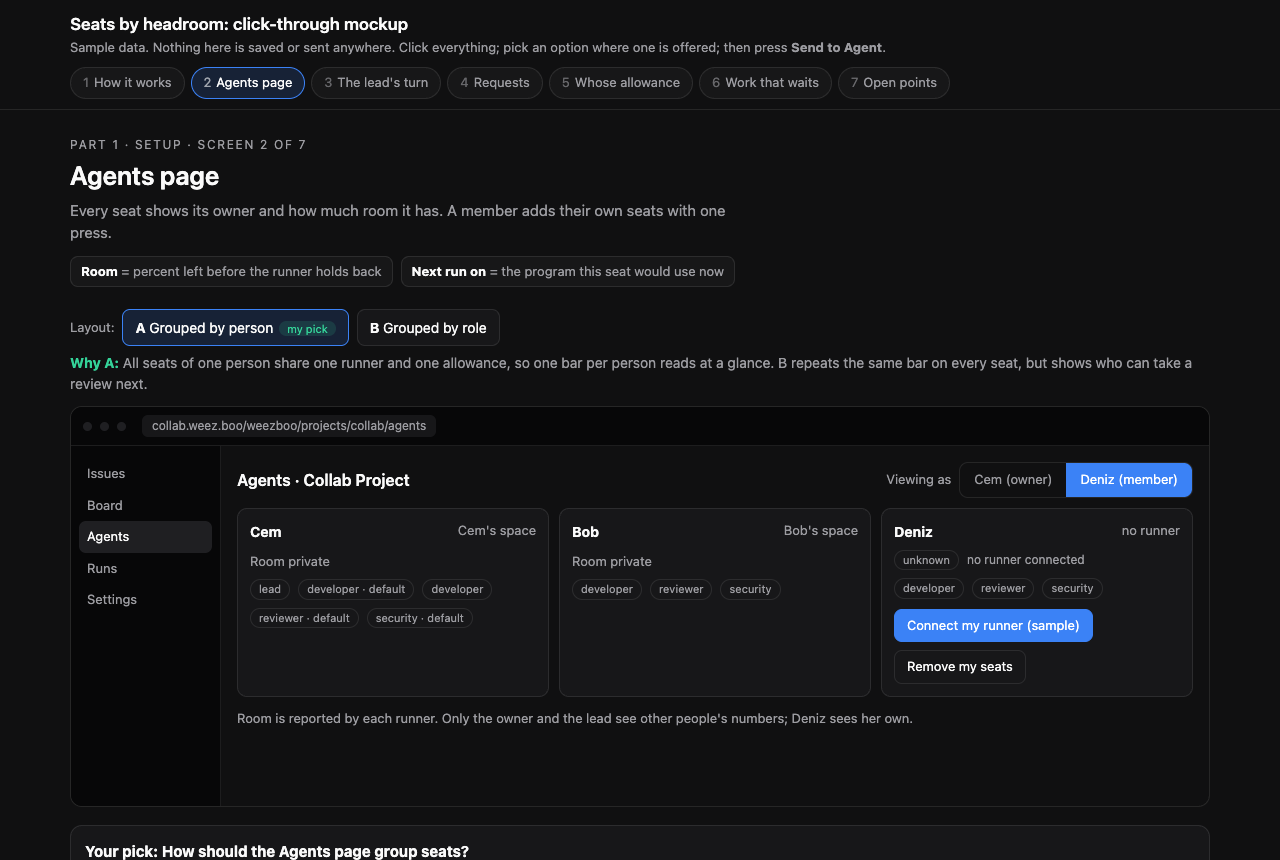
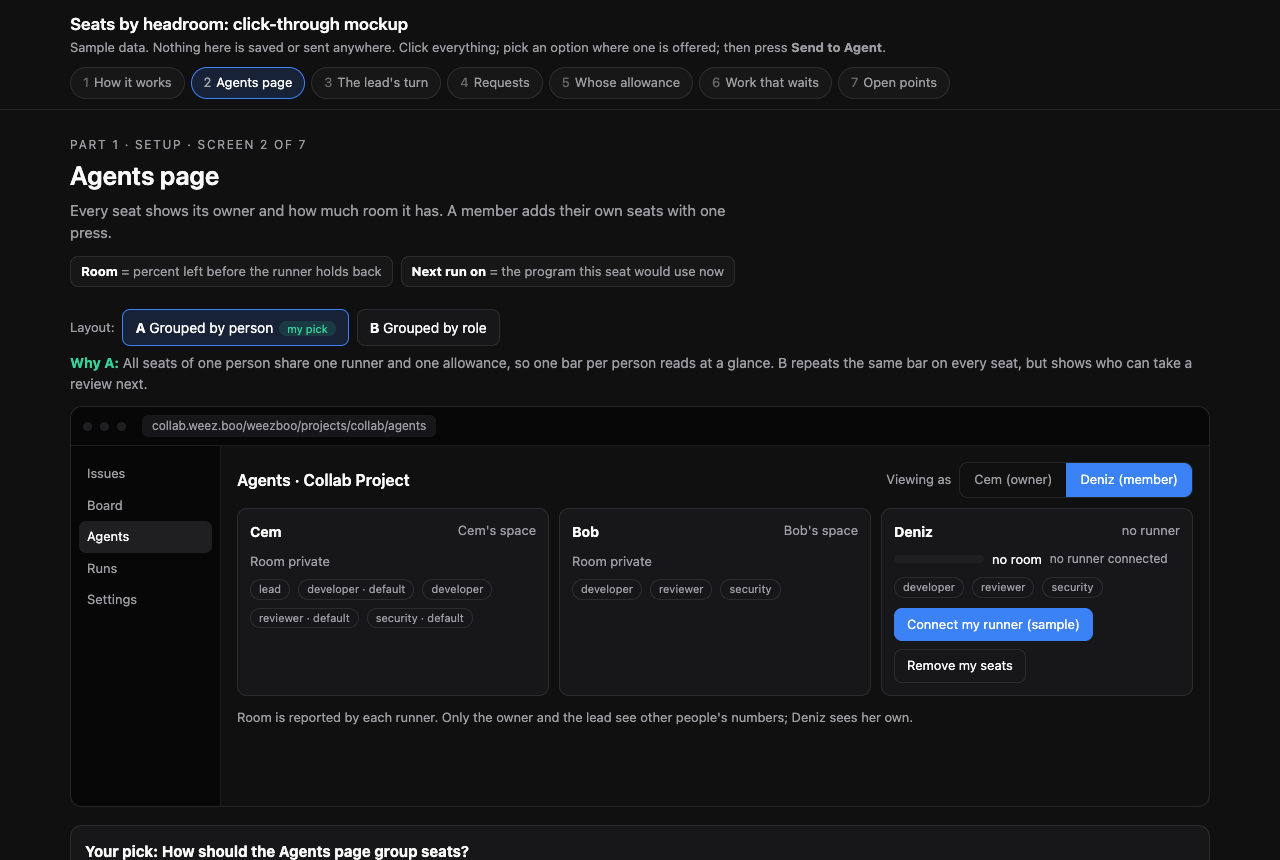
no-mistakes(review): Correct disconnected runner routing and reference screen

Changed region(s): [[0.1875, 0.8163, 0.6875, 0.8465], [0.7188, 0.6349, 0.9062, 0.6953], [0.7188, 0.7256, 0.8438, 0.786]]

diff --git a/docs/design/seats-by-room/mockup.html b/docs/design/seats-by-room/mockup.html
@@ -164,7 +164,6 @@ let SEATS=[
 const ROLES=['lead','developer','reviewer','security'];
 /* The one figure of a seat: null = unknown, 0 = cannot start now. */
 function eff(owner){const p=P[owner];
-  if(p.state==='none')return{v:null,why:STATE.none};
   if(p.state!=='on')return{v:0,why:STATE[p.state]};
   if(!G.fresh)return{v:null,why:'no number newer than 15 minutes'};
   if(p.room<=0)return{v:0,why:'allowance used up'};

diff --git a/docs/design/seats-by-room/README.md b/docs/design/seats-by-room/README.md
@@ -11,7 +11,7 @@ One figure per seat: the percent of allowance left, against the runner's hold-ba
 | Shown as | When |
 | --- | --- |
 | A bar and "60% room · next run on Claude Code" | The runner reported a figure in the last 15 minutes |
-| "no room" with the reason | The runner is offline, paused, has a full disk, or the allowance is used up |
+| "no room" with the reason | No runner is connected, the runner is offline, paused, has a full disk, or the allowance is used up |
 | "unknown" with the reason | No figure, or one older than 15 minutes. Work is then placed as it was before this epic |
 
 ## How it works
@@ -48,7 +48,7 @@ The "Try it" box belongs to the mockup, not to the product.
 
 ## Requests (CLB-778)
 
-Collab places a request on the seat of the role with the most room and says which seat got it and why. When no seat of the role has a fresh figure with room, it goes to the default seat, as before, unless Collab knows the default seat cannot start (its runner is offline, paused or full): then it goes to the next seat whose figure is unknown. When every seat of the role is known to have no room, it waits at the default seat.
+Collab places a request on the seat of the role with the most room and says which seat got it and why. When no seat of the role has a fresh figure with room, it goes to the default seat, as before, unless Collab knows the default seat cannot start (no runner is connected, or its runner is offline, paused or full): then it goes to the next seat whose figure is unknown. When every seat of the role is known to have no room, it waits at the default seat.
 
 ![Requests placed by room](06-requests.png)
 
